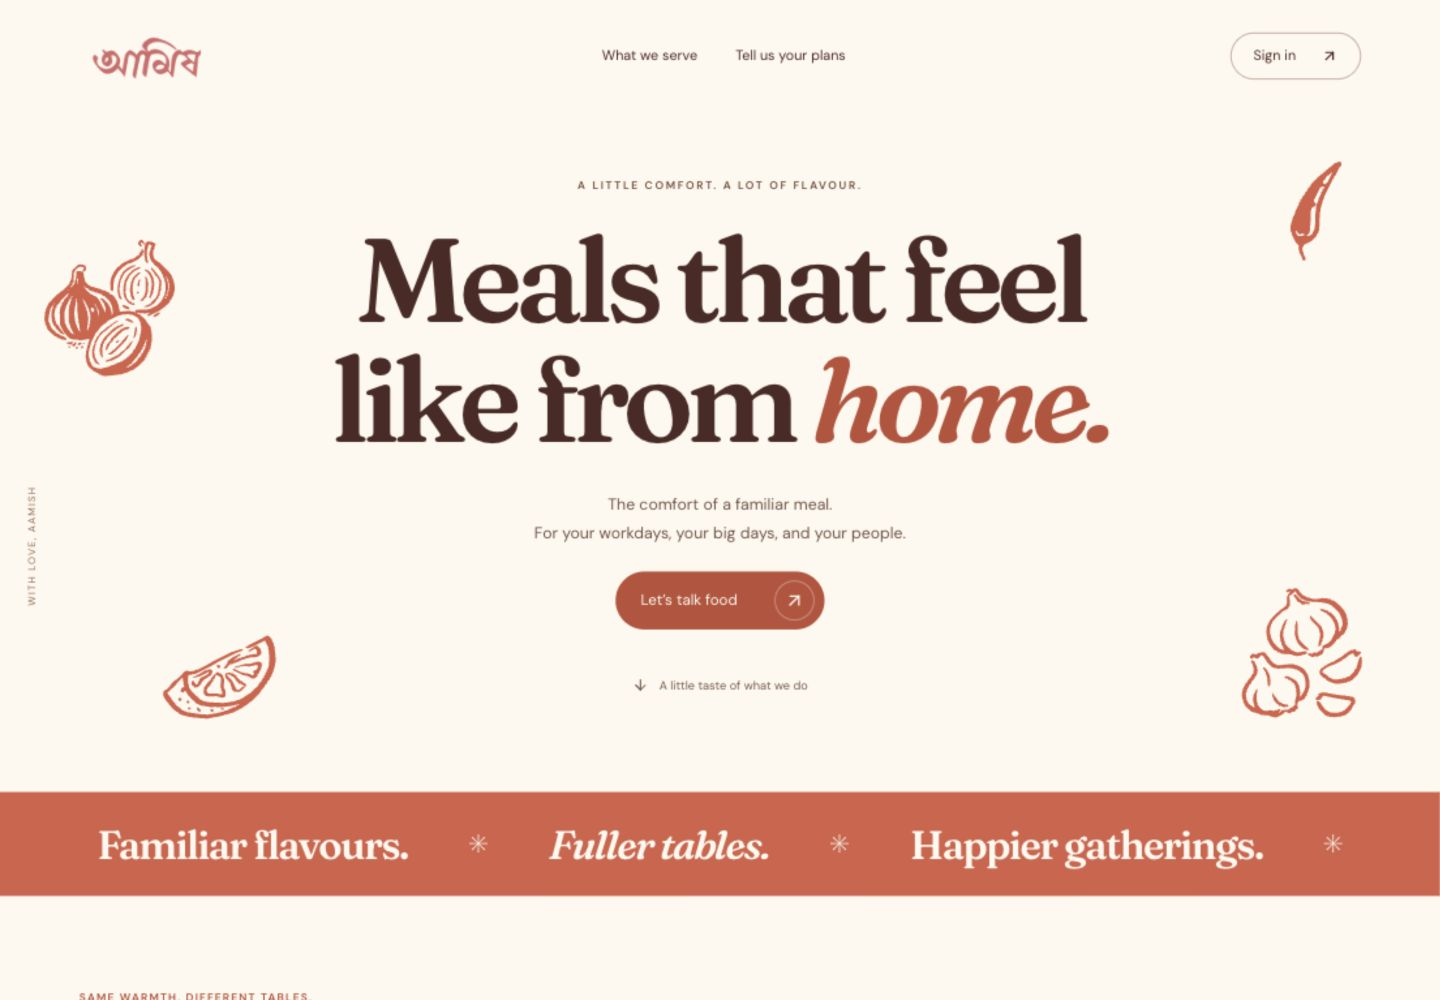
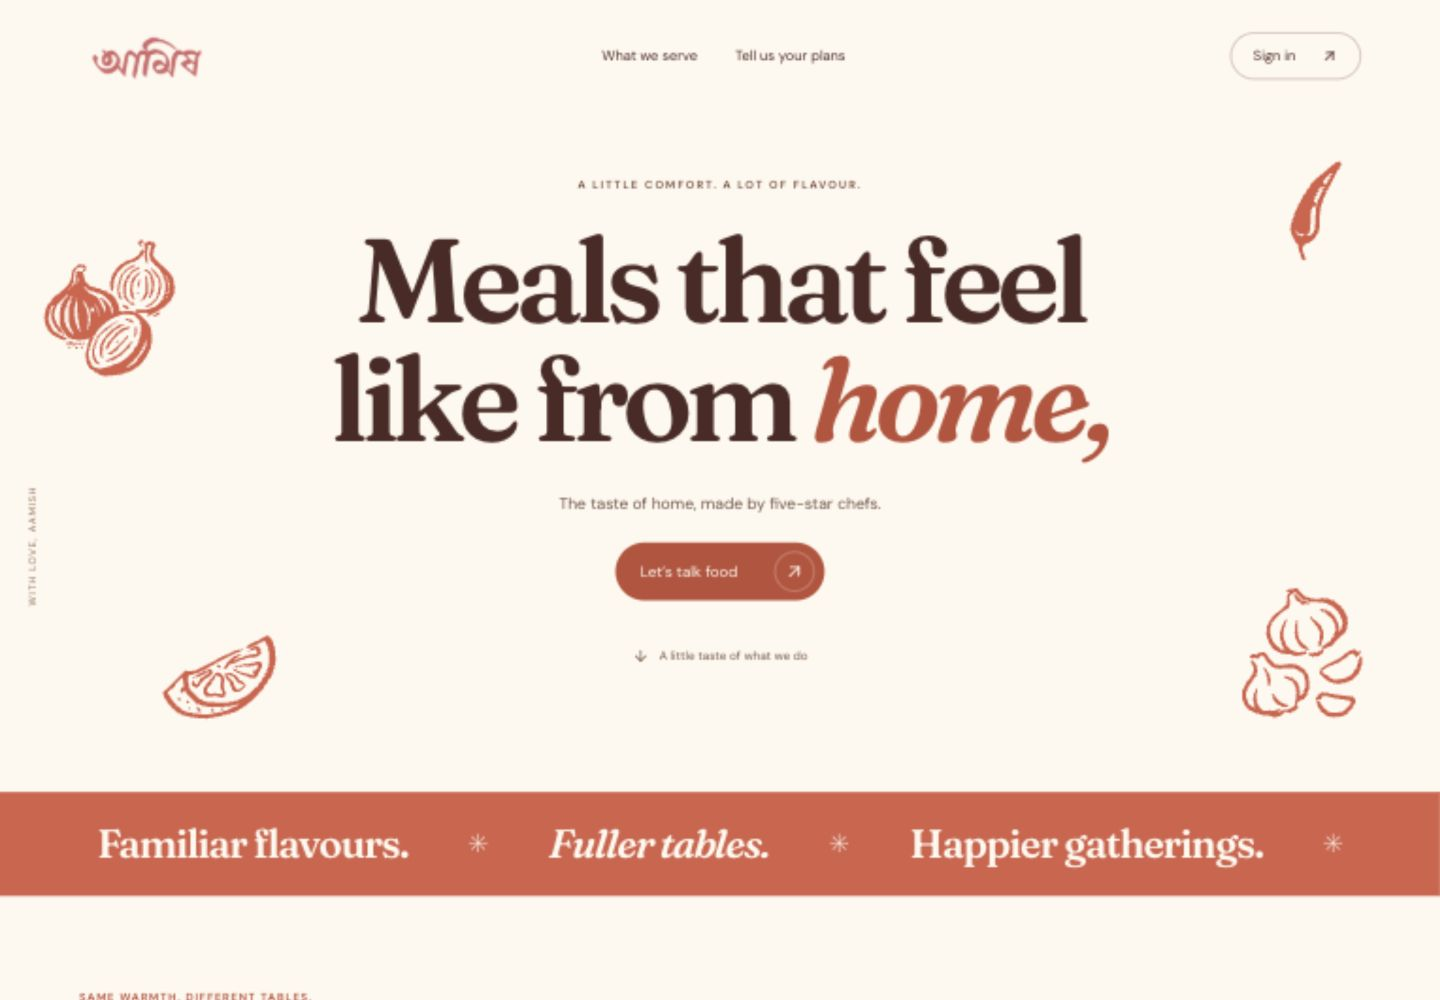
fix: update landing hero copy

diff --git a/apps/web/src/app/page.tsx b/apps/web/src/app/page.tsx
@@ -33,8 +33,8 @@ export default function Home() {
       <section className={styles.hero} aria-labelledby="hero-title">
         <div className={styles.heroIngredients} aria-hidden="true"><Ingredient name="onion" className={styles.heroOnion} /><Ingredient name="chilli" className={styles.heroChilli} /><Ingredient name="tomato" className={styles.heroTomato} /><Ingredient name="garlic" className={styles.heroGarlic} /></div>
         <p className={styles.eyebrow}>A LITTLE COMFORT. A LOT OF FLAVOUR.</p>
-        <h1 id="hero-title">Meals that feel<br />like from <em>home.</em></h1>
-        <p className={styles.heroDescription}>The comfort of a familiar meal.<br />For your workdays, your big days, and your people.</p>
+        <h1 id="hero-title">Meals that feel<br />like from <em>home,</em></h1>
+        <p className={styles.heroDescription}>The taste of home, made by five-star chefs.</p>
         <a className={styles.cta} href="#request">Let’s talk food <span><ArrowUpRight size={21} aria-hidden="true" /></span></a>
         <a className={styles.explore} href="#offerings"><ArrowDown size={17} aria-hidden="true" /> A little taste of what we do</a>
         <span className={styles.sideNote}>WITH LOVE, AAMISH</span>
